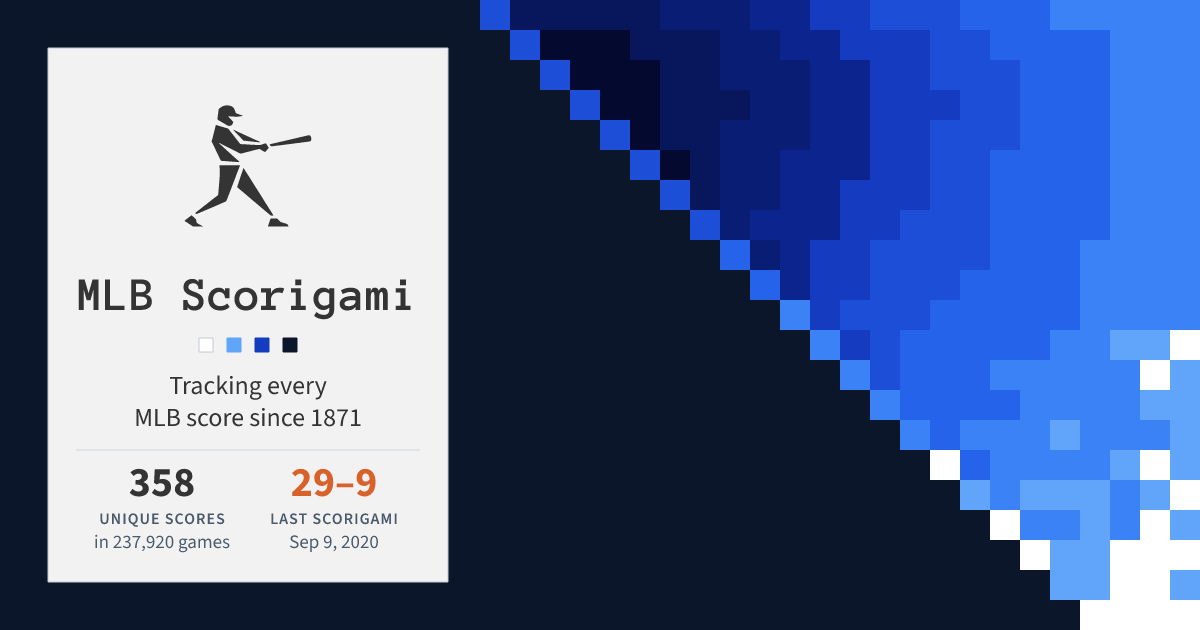
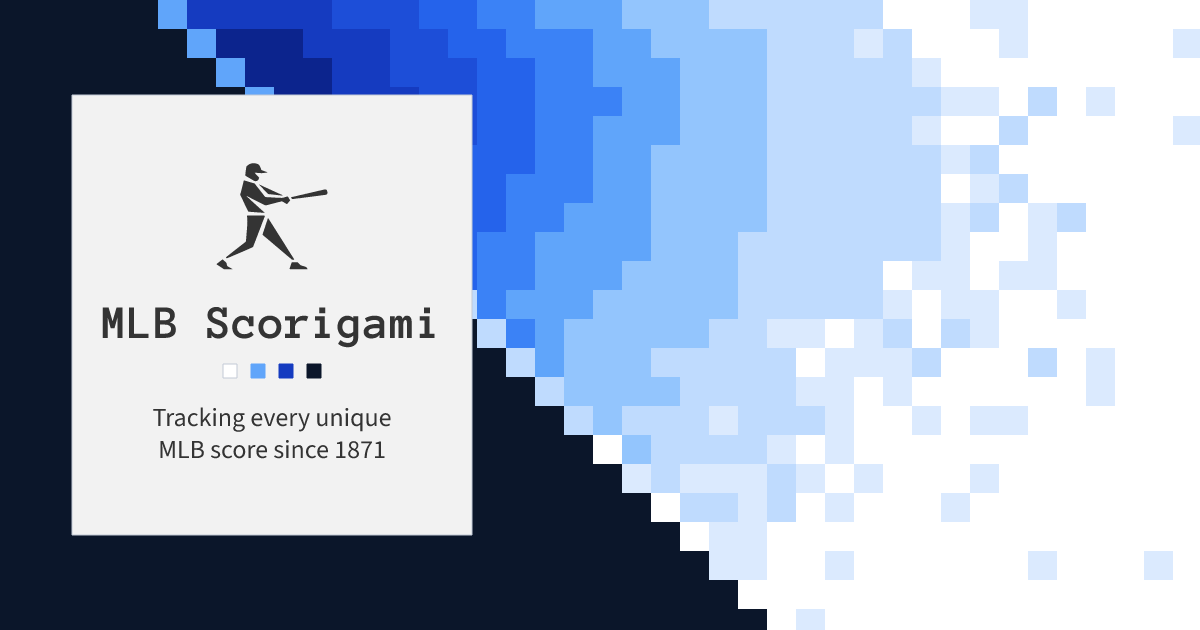
Site share card: compact panel over a corner-to-corner grid in the site palette

diff --git a/scripts/generate-og-image.js b/scripts/generate-og-image.js
@@ -135,18 +135,18 @@ function batterMarkup(x, y, size, fill, opacity = 1) {
 // --- Share card: Bearigami-style panel on the left, live grid on the right.
 const CELL = 30;
 const GRID_X = 480; // x of the 0-win column; staircase runs down-right from here
-const COLS = Math.ceil((W - GRID_X) / CELL); // winning scores 0..23
-const ROWS = Math.ceil(H / CELL); // losing scores 0..20
 const CARD = { x: 48, y: 48, w: 400, h: H - 96 };
 
-function gridMarkup(s, theme) {
+function gridMarkup(s, theme, cell = CELL, gridX = GRID_X) {
+  const cols = Math.ceil((W - gridX) / cell);
+  const rows = Math.ceil(H / cell);
   // Gapless cells on whole pixels, so no seams show between them.
   let out = `<g shape-rendering="crispEdges">`;
-  for (let win = 0; win < COLS; win++) {
-    for (let lose = 0; lose <= win && lose < ROWS; lose++) {
+  for (let win = 0; win < cols; win++) {
+    for (let lose = 0; lose <= win && lose < rows; lose++) {
       const n = s.occ.get(`${win}-${lose}`) || 0;
       const fill = n === 0 ? "#ffffff" : theme.cellColor(n, s.maxOcc);
-      out += `<rect x="${GRID_X + win * CELL}" y="${lose * CELL}" width="${CELL}" height="${CELL}" fill="${fill}"/>`;
+      out += `<rect x="${gridX + win * cell}" y="${lose * cell}" width="${cell}" height="${cell}" fill="${fill}"/>`;
     }
   }
   return out + `</g>`;
@@ -218,6 +218,42 @@ function shareCard({ s, logo, title, nickname, recentLabel, theme }) {
 </svg>`;
 }
 
+// Site card (og.png): a compact panel over a wider, finer grid that runs behind
+// it, in the site's light-mode palette.
+function siteCard(s, theme) {
+  const x = 72, w = 400, h = 440;
+  const y = Math.round((H - h) / 2);
+  const cx = x + w / 2;
+  const logoSize = 112;
+  const logoH = Math.round((logoSize * 867) / 900);
+  // Batter to the tagline's descenders, centered in the card.
+  const top = y + Math.round((h - (logoH + 198)) / 2);
+  const titleY = top + logoH + 68;
+  const swatchY = titleY + 26;
+  const tag1 = swatchY + 62;
+  const tag2 = tag1 + 32;
+  const title = "MLB Scorigami";
+  const titleSize = Math.min(58, Math.floor((w - 56) / (title.length * 0.546)));
+  const swatches = ["#ffffff", theme.ramp[3], theme.ramp[7], theme.dark];
+  const sw = 14, gap = 14;
+  const swTotal = swatches.length * sw + (swatches.length - 1) * gap;
+  const swatchRow = swatches
+    .map((c, i) => `<rect x="${cx - swTotal / 2 + i * (sw + gap)}" y="${swatchY}" width="${sw}" height="${sw}" fill="${c}" stroke="${c === "#ffffff" ? "#c3cad6" : c}" stroke-width="1"/>`)
+    .join("");
+  return `<svg width="${W}" height="${H}" viewBox="0 0 ${W} ${H}" xmlns="http://www.w3.org/2000/svg">
+  <rect width="${W}" height="${H}" fill="${theme.dark}"/>
+  ${gridMarkup(s, theme, 29, 158)}
+  <rect x="${x}" y="${y}" width="${w}" height="${h}" fill="${CARD_BG}" stroke="#c3cad6" stroke-width="1"/>
+  ${batterMarkup(cx - logoSize / 2, top, logoSize, INK)}
+  <text x="${cx}" y="${titleY}" text-anchor="middle" font-family="${TITLE_FONT}" font-weight="700" font-size="${titleSize}" fill="${INK}">${esc(title)}</text>
+  ${swatchRow}
+  <g font-family="${UI_FONT}" font-size="26" fill="${INK}" text-anchor="middle">
+    <text x="${cx}" y="${tag1}">Tracking every unique</text>
+    <text x="${cx}" y="${tag2}">MLB score since ${s.firstYear}</text>
+  </g>
+</svg>`;
+}
+
 const LOGO_BOX = 150;
 const logoX = CARD.x + (CARD.w - LOGO_BOX) / 2;
 const logoY = CARD.y + 44;
@@ -234,15 +270,8 @@ async function writeShareCards(all, readRows) {
     };
   };
 
-  const batterSize = 128;
-  write("og.png", render(shareCard({
-    s: all,
-    logo: batterMarkup(CARD.x + (CARD.w - batterSize) / 2, logoY + 12, batterSize, INK),
-    title: "MLB Scorigami",
-    nickname: "MLB",
-    recentLabel: "Last Scorigami",
-    theme: cardTheme("ALL"),
-  })));
+  const site = getTeamTheme("ALL");
+  write("og.png", render(siteCard(all, { ...site, cellColor: (n, max) => rampColor(site.ramp, n, max) })));
   console.log(`og.png written — ${fmt(all.totalGames)} games, ${all.uniqueScores} scores`);
 
   const TEAM_IGAMI = loadTeamIgami();

diff --git a/app/layout.tsx b/app/layout.tsx
@@ -50,14 +50,14 @@ export const metadata: Metadata = {
     title: TITLE,
     description: DESCRIPTION,
     siteName: "MLB Scorigami",
-    images: [{ url: "/og.png?v=3", width: 1200, height: 630, alt: "MLB Scorigami heatmap" }],
+    images: [{ url: "/og.png?v=4", width: 1200, height: 630, alt: "MLB Scorigami heatmap" }],
   },
   twitter: {
     card: "summary_large_image",
     title: TITLE,
     description: DESCRIPTION,
     creator: "@MLBgami",
-    images: ["/og.png?v=3"],
+    images: ["/og.png?v=4"],
   },
   icons: {
     icon: { url: "/favicon.svg", type: "image/svg+xml" },

diff --git a/app/page.tsx b/app/page.tsx
@@ -14,7 +14,7 @@ export const metadata: Metadata = {
     description:
       "Interactive heatmap of every unique final score in MLB history since 1871. See which scores have never happened, filter by team or era, and explore box scores.",
     url: "https://mlbscorigami.com",
-    images: [{ url: "/og.png?v=3", width: 1200, height: 630, alt: "MLB Scorigami heatmap" }],
+    images: [{ url: "/og.png?v=4", width: 1200, height: 630, alt: "MLB Scorigami heatmap" }],
   },
 };
 
